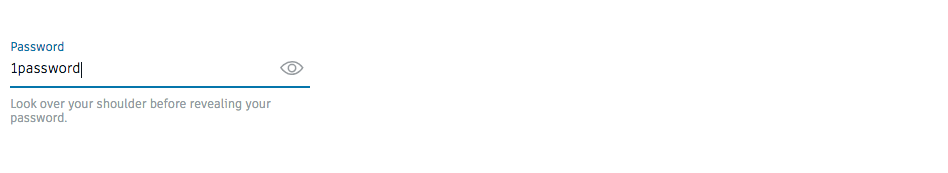
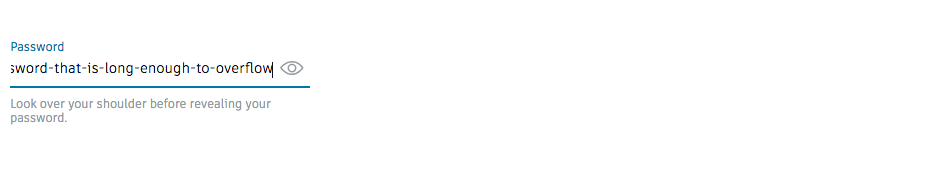
Add class to outer container when any password related button is visible.  When this class is present, add right padding to the input field preventing text from overlapping the button.  Gemini tests are updated accordingly

Changed region(s): [[0.0, 0.3468, 0.3059, 0.4335]]

diff --git a/src/implementations/vanilla/src/basics/form-elements/text-field/text-field.js b/src/implementations/vanilla/src/basics/form-elements/text-field/text-field.js
@@ -165,11 +165,13 @@ class TextField extends Core {
         const passwordButton = this.el.querySelector('.hig__text-field__password-reveal-button');
         passwordButton.innerHTML = iconString;
         passwordButton.classList.add('hig__text-field__extra--show');
+        this.el.classList.add('hig__text-field--password-button-visible');
     }
 
     _hidePasswordRevealButton() {
         const passwordButton = this.el.querySelector('.hig__text-field__password-reveal-button');
         passwordButton.classList.remove('hig__text-field__extra--show');
+        this.el.classList.remove('hig__text-field--password-button-visible');
     }
 
     _onClick(fn){
@@ -185,11 +187,13 @@ class TextField extends Core {
         const passwordButton = this.el.querySelector('.hig__text-field__password-hide-button');
         passwordButton.innerHTML = iconString;
         passwordButton.classList.add('hig__text-field__extra--show');
+        this.el.classList.add('hig__text-field--password-button-visible');
     }
 
     _hidePasswordHideButton() {
         const passwordButton = this.el.querySelector('.hig__text-field__password-hide-button');
         passwordButton.classList.remove('hig__text-field__extra--show');
+        this.el.classList.remove('hig__text-field--password-button-visible');
     }
 
     _onPasswordHideButtonClick(fn) {

diff --git a/src/implementations/vanilla/dev/gemini/password-field-test.js b/src/implementations/vanilla/dev/gemini/password-field-test.js
@@ -25,7 +25,7 @@ gemini.suite('password field', (parent) => {
                 this.revealButtonfield = find('.test-group-reveal .hig__text-field__input');
             })
             .capture('with password reveal button', function(actions, find) {
-                actions.sendKeys(this.revealButtonfield, '1password');
+                actions.sendKeys(this.revealButtonfield, 'this-is-a-password-that-is-long-enough-to-overflow');
             })
             .capture('with password revealed', function(actions, find) {
                 const passwordRevealButton = find('.test-group-reveal .hig__text-field__password-reveal-button');

diff --git a/src/implementations/vanilla/src/basics/form-elements/text-field/text-field.scss b/src/implementations/vanilla/src/basics/form-elements/text-field/text-field.scss
@@ -115,6 +115,10 @@
         padding-right: 36px;
     }
 
+    .hig__text-field--password-button-visible & {
+        padding-right: 36px;
+    }
+
     &.hig__text-field__input--no-value {
         @include placeholder {
             color: transparent;
